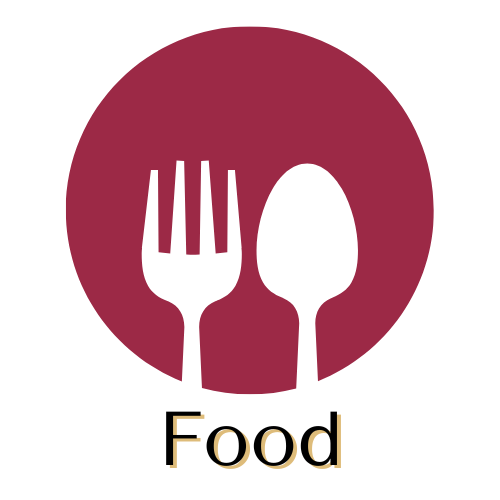
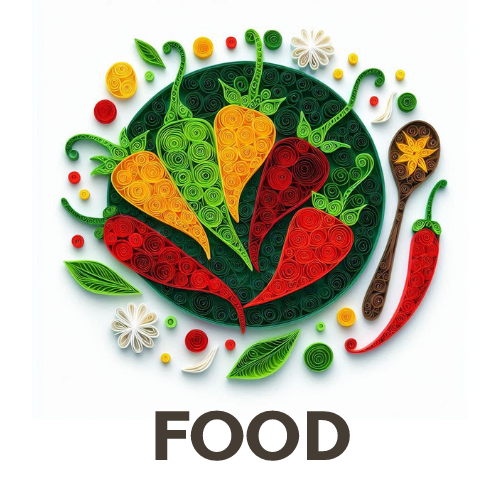
new category images added

diff --git a/src/Components/Footer.jsx b/src/Components/Footer.jsx
@@ -103,7 +103,7 @@ const Footer = () => {
                       textAlign: "left",
                     }}
                   >
-                    +91 6787656780
+                    +91 84591 72859
                   </Typography>
                 </Grid>
               </Grid>
@@ -146,7 +146,7 @@ const Footer = () => {
                       textAlign: "left",
                     }}
                   >
-                    shgeshop@gmail.com
+                    support@mumbailocal.org
                   </Typography>
                 </Grid>
               </Grid>
@@ -161,6 +161,7 @@ const Footer = () => {
               paddingTop: "10px",
               paddingLeft: "3rem",
               textAlign: "left",
+              color: "#fff",
             }}
           >
             Join the SHGeshop Competition with BMCs Mumbai Local and support
@@ -174,9 +175,10 @@ const Footer = () => {
             sx={{
               fontSize: "19px",
               paddingLeft: "1rem",
-              fontWeight: "800",
+              fontWeight: "900",
               textAlign: "left",
               paddingTop: "2.5rem",
+              color: "#fff",
             }}
           >
             Follow Us
@@ -199,7 +201,7 @@ const Footer = () => {
                   rel="noopener noreferrer"
                   style={{ color: "#1DA1F2" }}
                 >
-                  <FontAwesomeIcon icon={faTwitter} size="1x" />
+                  <FontAwesomeIcon icon={faTwitter} size="2x" />
                 </a>
               </Grid>
 
@@ -209,14 +211,14 @@ const Footer = () => {
                 sx={{ display: "flex", justifyContent: "center" }}
               >
                 <a
-                  href="https://facebook.com"
+                  href="https://www.facebook.com/profile.php?id=61562700044024"
                   target="_blank"
                   rel="noopener noreferrer"
                   style={{
                     color: "#1877F2",
                   }}
                 >
-                  <FontAwesomeIcon icon={faFacebookSquare} size="1x" />
+                  <FontAwesomeIcon icon={faFacebookSquare} size="2x" />
                 </a>
               </Grid>
 
@@ -231,7 +233,7 @@ const Footer = () => {
                   rel="noopener noreferrer"
                   style={{ color: "#E1306C" }}
                 >
-                  <FontAwesomeIcon icon={faInstagram} size="1x" />
+                  <FontAwesomeIcon icon={faInstagram} size="2x" />
                 </a>
               </Grid>
 
@@ -241,12 +243,12 @@ const Footer = () => {
                 sx={{ display: "flex", justifyContent: "center" }}
               >
                 <a
-                  href="https://linkedin.com"
+                  href="https://www.linkedin.com/in/mumbai-local-263ab831a/"
                   target="_blank"
                   rel="noopener noreferrer"
                   style={{ color: "#0A66C2" }}
                 >
-                  <FontAwesomeIcon icon={faLinkedin} size="1x" />
+                  <FontAwesomeIcon icon={faLinkedin} size="2x" />
                 </a>
               </Grid>
             </Grid>

diff --git a/src/Components/Products/ProductMainCategory.jsx b/src/Components/Products/ProductMainCategory.jsx
@@ -57,7 +57,7 @@ const categories = [
 
 const ProductMainCategory = () => {
   const { category } = useCompitationContext();
-    const navigate = useNavigate();
+  const navigate = useNavigate();
   const handleCategorySelect = (id) => {
     navigate(`/category/${id}`);
   };
@@ -65,14 +65,14 @@ const ProductMainCategory = () => {
     <Grid
       container
       sx={{ justifyContent: "center", marginBottom: "40px" }}
-      spacing={2}
+      xs={12}
     >
       {categories.map((category, index) => (
         <Grid
           item
           xs={3} // Each item takes up 6/12 columns on extra-small screens
           sm={3} // Each item takes up 3/12 columns on small screens
-          lg={1.5}
+          lg={1.7}
           key={index}
           onClick={() => handleCategorySelect(category.id)}
           sx={{ display: "flex", justifyContent: "center" }}
@@ -80,7 +80,7 @@ const ProductMainCategory = () => {
           <img
             src={category.src}
             alt={category.alt}
-            style={{ width: "100%", maxWidth: "150px", cursor: "pointer" }}
+            style={{ borderRadius: "16px" }}
           />
         </Grid>
       ))}
